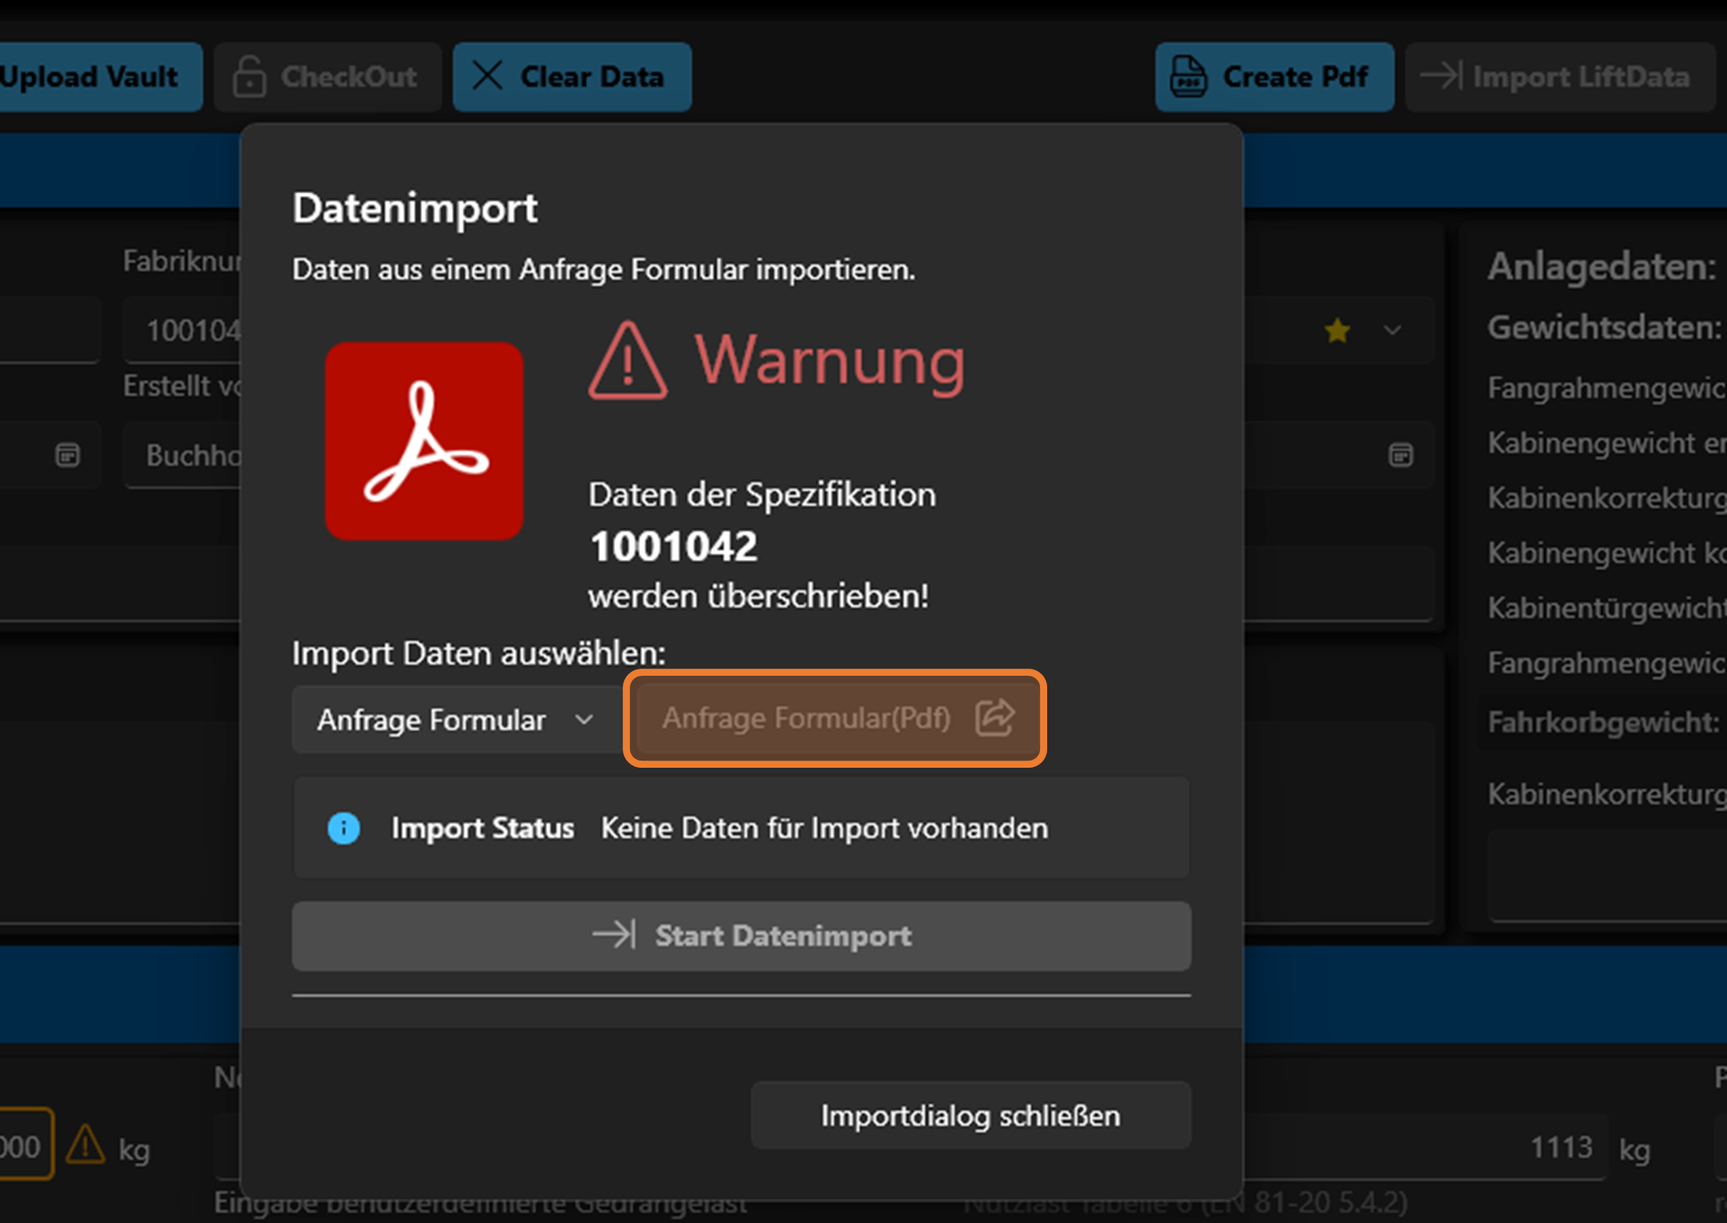
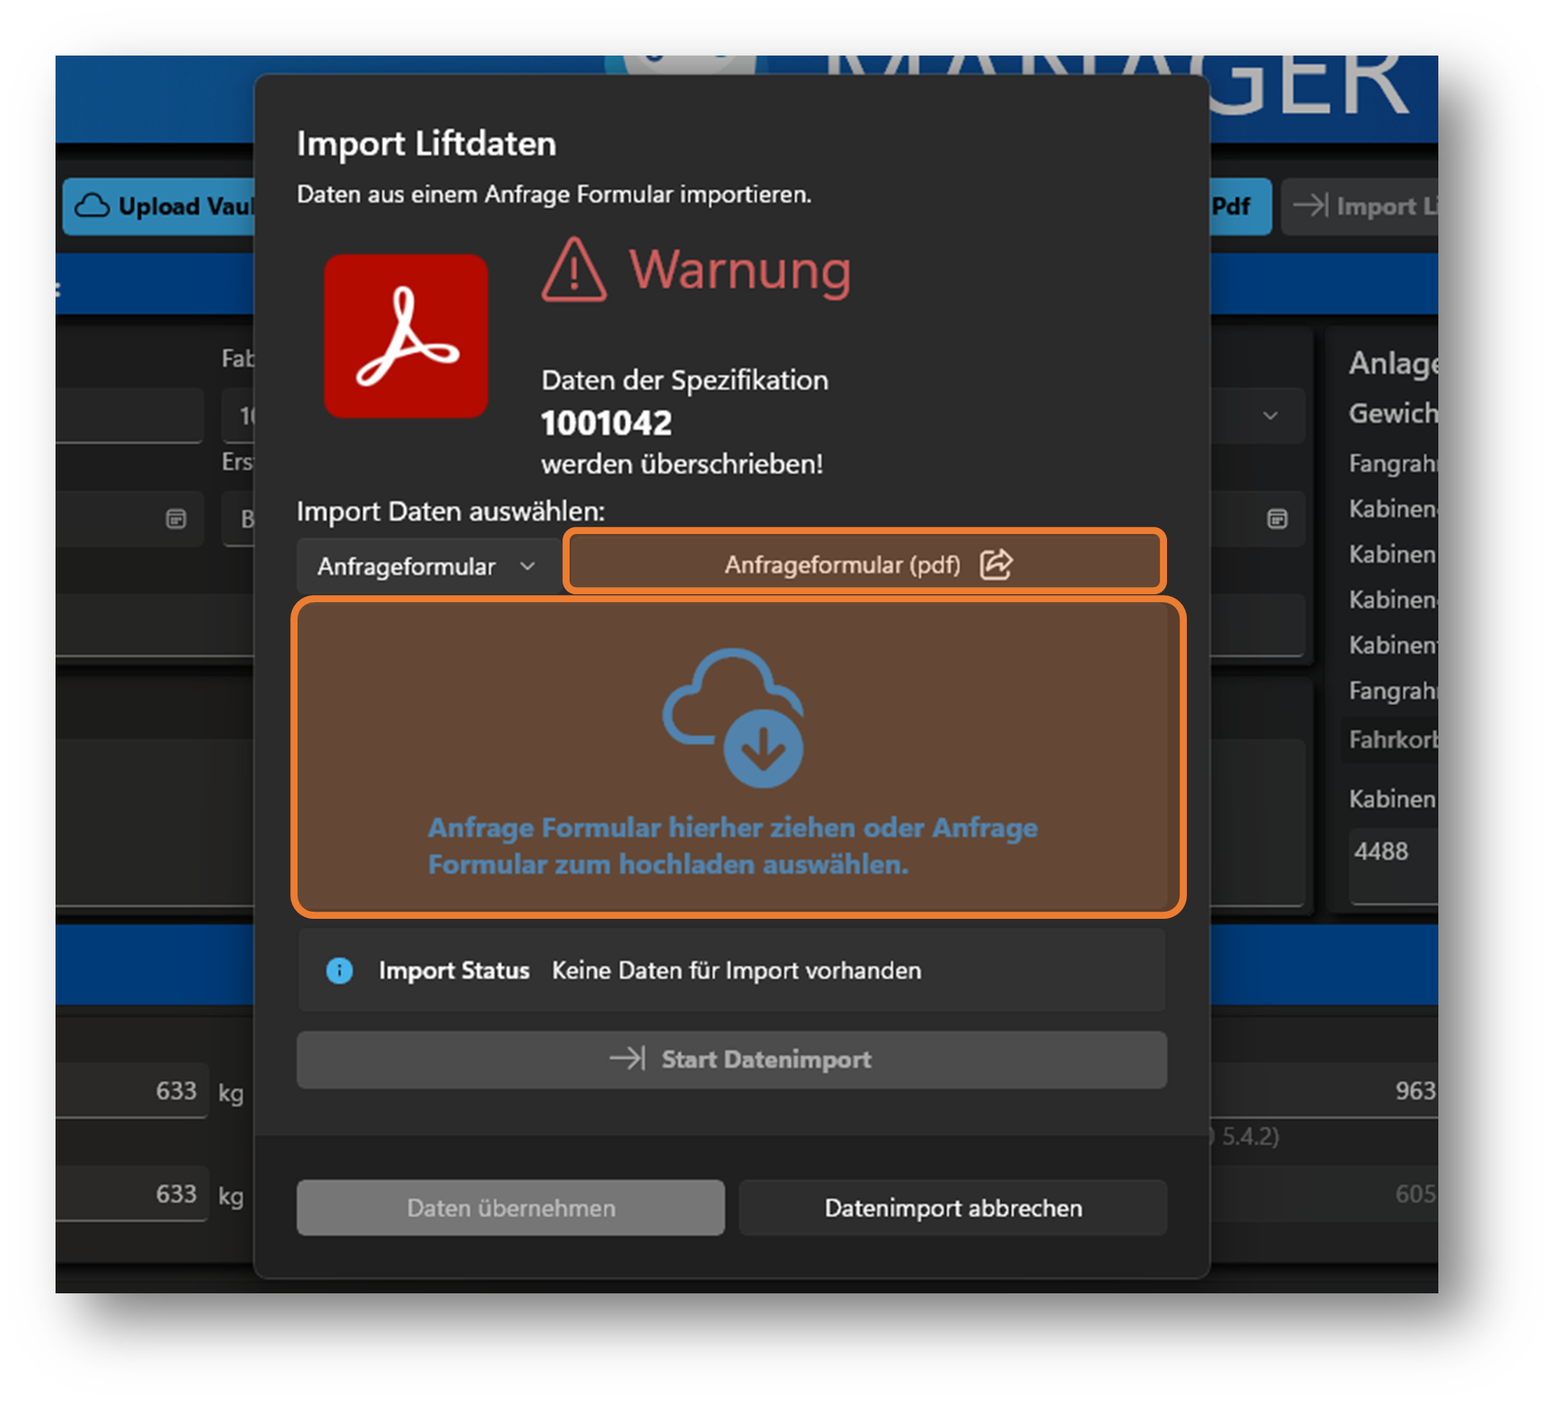
update helpCenter mailImport

diff --git a/LiftDataManager.Core/Services/ParameterDataService.cs b/LiftDataManager.Core/Services/ParameterDataService.cs
@@ -4,6 +4,7 @@ using LiftDataManager.Core.Contracts.Services;
 using LiftDataManager.Core.DataAccessLayer;
 using LiftDataManager.Core.Models.ComponentModels;
 using Microsoft.Extensions.Logging;
+using MsgReader.Outlook;
 using PdfSharp;
 using PdfSharp.Fonts;
 using PdfSharp.Pdf.AcroForms;
@@ -230,19 +231,23 @@ public partial class ParameterDataService : IParameterDataService
         {
             return transferDataList;
         }
-        using (var msg = new MsgReader.Outlook.Storage.Message(path))
+        Encoding.RegisterProvider(CodePagesEncodingProvider.Instance);
+        string? htmlBody;
+        using (var msg = new Storage.Message(path))
         {
             var from = msg.Sender.Email;
             _logger.LogInformation(60100, "Mailofferimport sender: {from}", from);
             var subject = msg.Subject;
             _logger.LogInformation(60100, "Mailofferimport subject: {subject}", subject);
-            var htmlBody = msg.BodyHtml;
-            var mailOfferHtml = new HtmlDocument();
-            mailOfferHtml.LoadHtml(htmlBody);
-            var htmlNodes = mailOfferHtml.DocumentNode.SelectNodes("//tr");
-            double carFloorHeight = 86d;
-            double carRoofHeight = 76d;
-            Dictionary<string, (int, string)> importdataDictionary = new()
+            htmlBody = msg.BodyHtml;
+        }
+
+        var mailOfferHtml = new HtmlDocument();
+        mailOfferHtml.LoadHtml(htmlBody);
+        var htmlNodes = mailOfferHtml.DocumentNode.SelectNodes("//tr");
+        double carFloorHeight = 86d;
+        double carRoofHeight = 76d;
+        Dictionary<string, (int, string)> importdataDictionary = new()
             {
                 {"var_AnPersonZ1", (1, "Name;Vorname;Firma") },
                 {"var_AnPersonZ2", (0, "Straße")},
@@ -279,170 +284,169 @@ public partial class ParameterDataService : IParameterDataService
                 {"var_B2" , (0, "Größter Schienenbügelabstand")},
                 {"var_Kommentare" , (0, "Anmerkungen")}
             };
-
-            foreach (var dataSet in importdataDictionary)
+        foreach (var dataSet in importdataDictionary)
+        {
+            var value = string.Empty;
+            switch (dataSet.Value.Item1)
             {
-                var value = string.Empty;
-                switch (dataSet.Value.Item1)
-                {
-                    case 1:
-                        // concatenate strings
-                        var concatenatedString = string.Empty;
-                        var parameters = dataSet.Value.Item2.Split(';');
-                        if (parameters.Length > 0)
+                case 1:
+                    // concatenate strings
+                    var concatenatedString = string.Empty;
+                    var parameters = dataSet.Value.Item2.Split(';');
+                    if (parameters.Length > 0)
+                    {
+                        concatenatedString = string.Join(' ', parameters.Select(x => GetValueFromHtmlNode(htmlNodes.FirstOrDefault(y => y.InnerText.StartsWith(x)))));
+                    }
+                    value = concatenatedString;
+                    break;
+                case 2:
+                    // set entrances
+                    var entrances = GetValueFromHtmlNode(htmlNodes.FirstOrDefault(x => x.InnerText.StartsWith(dataSet.Value.Item2)));
+                    value = entrances.Contains(dataSet.Key[^1..]).ToString();
+                    break;
+                case 3:
+                    // set carTyp
+                    value = string.IsNullOrWhiteSpace(GetValueFromHtmlNode(htmlNodes.FirstOrDefault(x => x.InnerText.StartsWith(dataSet.Value.Item2))))
+                            ? string.Empty
+                            : "Fremdkabine";
+                    break;
+                case 4:
+                    // convert mm to m
+                    var travelmeter = "0";
+                    var travelmm = GetValueFromHtmlNode(htmlNodes.FirstOrDefault(x => x.InnerText.StartsWith(dataSet.Value.Item2)));
+                    if (!string.IsNullOrWhiteSpace(travelmm))
+                    {
+                        if (double.TryParse(travelmm, out double doubleValue))
                         {
-                            concatenatedString = string.Join(' ', parameters.Select(x => GetValueFromHtmlNode(htmlNodes.FirstOrDefault(y => y.InnerText.StartsWith(x)))));
+                            travelmeter = (doubleValue / 1000).ToString();
                         }
-                        value = concatenatedString;
-                        break;
-                    case 2:
-                        // set entrances
-                        var entrances = GetValueFromHtmlNode(htmlNodes.FirstOrDefault(x => x.InnerText.StartsWith(dataSet.Value.Item2)));
-                        value = entrances.Contains(dataSet.Key[^1..]).ToString();
-                        break;
-                    case 3:
-                        // set carTyp
-                        value = string.IsNullOrWhiteSpace(GetValueFromHtmlNode(htmlNodes.FirstOrDefault(x => x.InnerText.StartsWith(dataSet.Value.Item2)))) 
-                                ? string.Empty 
-                                : "Fremdkabine" ;
-                        break;
-                    case 4:
-                        // convert mm to m
-                        var travelmeter = "0";
-                        var travelmm = GetValueFromHtmlNode(htmlNodes.FirstOrDefault(x => x.InnerText.StartsWith(dataSet.Value.Item2)));
-                        if (!string.IsNullOrWhiteSpace(travelmm))
+                    }
+                    value = travelmeter;
+                    break;
+                case 5:
+                    // set liftTyp
+                    var selectedLiftTyp = GetValueFromHtmlNode(htmlNodes.FirstOrDefault(x => x.InnerText.StartsWith(dataSet.Value.Item2)));
+                    value = selectedLiftTyp switch
+                    {
+                        "Hydraulikaufzug" => "Personen- / Lasten Hydraulik-Aufzug",
+                        "Seilaufzug" => "Personen Seil-Aufzug",
+                        _ => string.Empty,
+                    };
+                    break;
+                case 6:
+                    // set machineroom
+                    var machineroom = GetValueFromHtmlNode(htmlNodes.FirstOrDefault(x => x.InnerText.StartsWith(dataSet.Value.Item2)));
+                    value = machineroom switch
+                    {
+                        "mit Maschinenraum oben über" => "oben über",
+                        "mit Maschinenraum oben neben" => "oben neben",
+                        "mit Maschinenraum unten neben" => "unten neben",
+                        "ohne Maschinenraum" => "ohne",
+                        _ => string.Empty,
+                    };
+                    break;
+                case 7:
+                    // set carFrameTyp
+                    var carFrameTyp = GetValueFromHtmlNode(htmlNodes.FirstOrDefault(x => x.InnerText.StartsWith(dataSet.Value.Item2)));
+                    var drivetyp = GetValueFromHtmlNode(htmlNodes.FirstOrDefault(x => x.InnerText.StartsWith("Antriebsart")));
+                    if (!string.IsNullOrWhiteSpace(drivetyp))
+                    {
+                        value = carFrameTyp switch
                         {
-                            if (double.TryParse(travelmm, out double doubleValue))
-                            {
-                                travelmeter = (doubleValue / 1000).ToString();
-                            }
-                        }
-                        value = travelmeter;
-                        break;
-                    case 5:
-                        // set liftTyp
-                        var selectedLiftTyp = GetValueFromHtmlNode(htmlNodes.FirstOrDefault(x => x.InnerText.StartsWith(dataSet.Value.Item2)));
-                        value = selectedLiftTyp switch
-                        {
-                            "Hydraulikaufzug" => "Personen- / Lasten Hydraulik-Aufzug",
-                            "Seilaufzug" => "Personen Seil-Aufzug",
+                            "Rucksackausführung" => drivetyp.StartsWith("H") ? "Sonderbausatz Hydr. Rucksack 2:1" : "Sonderbausatz Seil Rucksack MRL",
+                            "Zentral / Tandem" => drivetyp.StartsWith("H") ? "Sonderbausatz Hydr. Tandem 2:1" : "Sonderbausatz Seil Zentralrahmen",
                             _ => string.Empty,
                         };
-                        break;
-                    case 6:
-                        // set machineroom
-                        var machineroom = GetValueFromHtmlNode(htmlNodes.FirstOrDefault(x => x.InnerText.StartsWith(dataSet.Value.Item2)));
-                        value = machineroom switch
-                        {
-                           "mit Maschinenraum oben über" => "oben über",
-                           "mit Maschinenraum oben neben" => "oben neben",
-                           "mit Maschinenraum unten neben" => "unten neben",
-                           "ohne Maschinenraum" => "ohne",
-                           _ => string.Empty,
-                        };
-                        break;
-                    case 7:
-                        // set carFrameTyp
-                        var carFrameTyp = GetValueFromHtmlNode(htmlNodes.FirstOrDefault(x => x.InnerText.StartsWith(dataSet.Value.Item2)));
-                        var drivetyp = GetValueFromHtmlNode(htmlNodes.FirstOrDefault(x => x.InnerText.StartsWith("Antriebsart")));
-                        if (!string.IsNullOrWhiteSpace(drivetyp))
-                        {
-                            value = carFrameTyp switch
+                    }
+                    break;
+                case 8:
+                    // set carFloorTyp
+                    switch (dataSet.Key)
+                    {
+                        case "var_Bodentyp":
+                            value = "extern";
+                            break;
+                        case "var_KU":
+                            var floorHeightString = GetValueFromHtmlNode(htmlNodes.FirstOrDefault(x => x.InnerText.StartsWith(dataSet.Value.Item2)));
+                            if (!string.IsNullOrWhiteSpace(floorHeightString))
                             {
-                                "Rucksackausführung" => drivetyp.StartsWith("H") ? "Sonderbausatz Hydr. Rucksack 2:1" : "Sonderbausatz Seil Rucksack MRL",
-                                "Zentral / Tandem" => drivetyp.StartsWith("H") ? "Sonderbausatz Hydr. Tandem 2:1" : "Sonderbausatz Seil Zentralrahmen",
-                                _ => string.Empty,
-                            };
+                                if (double.TryParse(floorHeightString, out double doubleValue))
+                                {
+                                    carFloorHeight = doubleValue;
+                                }
+                            }
+                            value = carFloorHeight.ToString();
+                            break;
+                        default:
+                            break;
+                    }
+                    break;
+                case 9:
+                    //set carroof
+                    var roofHeightString = GetValueFromHtmlNode(htmlNodes.FirstOrDefault(x => x.InnerText.StartsWith(dataSet.Value.Item2)));
+                    if (!string.IsNullOrWhiteSpace(roofHeightString))
+                    {
+                        if (double.TryParse(roofHeightString, out double doubleValue))
+                        {
+                            carRoofHeight = doubleValue;
                         }
-                        break;
-                    case 8:
-                        // set carFloorTyp
+                    }
+                    value = carRoofHeight.ToString();
+                    break;
+                case 10:
+                    //set carWalloutside
+                    var outsideCar = GetValueFromHtmlNode(htmlNodes.FirstOrDefault(x => x.InnerText.StartsWith(dataSet.Value.Item2)));
+                    if (string.IsNullOrWhiteSpace(outsideCar))
+                    {
                         switch (dataSet.Key)
                         {
-                            case "var_Bodentyp":
-                                value = "extern";
-                                break;
-                            case "var_KU":
-                                var floorHeightString = GetValueFromHtmlNode(htmlNodes.FirstOrDefault(x => x.InnerText.StartsWith(dataSet.Value.Item2)));
-                                if (!string.IsNullOrWhiteSpace(floorHeightString))
+                            case "var_KBA" or "var_KTA":
+                                var carInside = GetValueFromHtmlNode(htmlNodes.FirstOrDefault(x => x.InnerText.StartsWith(dataSet.Key == "var_KBA"
+                                                                                                     ? "Kabinenbreite innen"
+                                                                                                     : "Kabinentiefe innen")));
+                                if (!string.IsNullOrWhiteSpace(carInside))
                                 {
-                                    if (double.TryParse(floorHeightString, out double doubleValue))
+                                    if (double.TryParse(carInside, out double doubleValue))
                                     {
-                                        carFloorHeight = doubleValue;
+                                        value = (doubleValue + 50d).ToString();
                                     }
                                 }
-                                value = carFloorHeight.ToString();
+                                break;
+                            case "var_KHA":
+                                var carHeightOutside = GetValueFromHtmlNode(htmlNodes.FirstOrDefault(x => x.InnerText.StartsWith(dataSet.Value.Item2)));
+                                if (string.IsNullOrWhiteSpace(carHeightOutside))
+                                {
+                                    var carHeightInside = GetValueFromHtmlNode(htmlNodes.FirstOrDefault(x => x.InnerText.StartsWith("Kabinenhöhe innen")));
+                                    if (double.TryParse(carHeightInside, out double doubleValue))
+                                    {
+                                        value = (carFloorHeight + doubleValue + carRoofHeight).ToString();
+                                    }
+                                }
+                                else
+                                {
+                                    value = carHeightOutside;
+                                }
                                 break;
                             default:
                                 break;
                         }
-                        break;
-                    case 9:
-                        //set carroof
-                        var roofHeightString = GetValueFromHtmlNode(htmlNodes.FirstOrDefault(x => x.InnerText.StartsWith(dataSet.Value.Item2)));
-                        if (!string.IsNullOrWhiteSpace(roofHeightString))
-                        {
-                            if (double.TryParse(roofHeightString, out double doubleValue))
-                            {
-                                carRoofHeight = doubleValue;
-                            }
-                        }
-                        value = carRoofHeight.ToString();
-                        break;
-                    case 10:
-                        //set carWalloutside
-                        var outsideCar = GetValueFromHtmlNode(htmlNodes.FirstOrDefault(x => x.InnerText.StartsWith(dataSet.Value.Item2)));
-                        if (string.IsNullOrWhiteSpace(outsideCar))
-                        {
-                            switch (dataSet.Key)
-                            {
-                                case "var_KBA" or "var_KTA":
-                                    var carInside = GetValueFromHtmlNode(htmlNodes.FirstOrDefault(x => x.InnerText.StartsWith(dataSet.Key == "var_KBA"
-                                                                                                         ? "Kabinenbreite innen"
-                                                                                                         : "Kabinentiefe innen")));
-                                    if (!string.IsNullOrWhiteSpace(carInside))
-                                    {
-                                        if (double.TryParse(carInside, out double doubleValue))
-                                        {
-                                            value = (doubleValue + 50d).ToString();
-                                        }
-                                    }
-                                    break;
-                                case "var_KHA":
-                                    var carHeightOutside = GetValueFromHtmlNode(htmlNodes.FirstOrDefault(x => x.InnerText.StartsWith(dataSet.Value.Item2)));
-                                    if (string.IsNullOrWhiteSpace(carHeightOutside))
-                                    {
-                                        var carHeightInside = GetValueFromHtmlNode(htmlNodes.FirstOrDefault(x => x.InnerText.StartsWith("Kabinenhöhe innen")));
-                                        if (double.TryParse(carHeightInside, out double doubleValue))
-                                        {
-                                            value = (carFloorHeight + doubleValue + carRoofHeight).ToString();
-                                        }
-                                    }
-                                    else
-                                    {
-                                        value = carHeightOutside;
-                                    }
-                                    break;
-                                default:
-                                    break;
-                            }
-                        }
-                        else
-                        {
-                            value = outsideCar;
-                        }
-                        break;
-                    default:
-                        // return standard value
-                        value = GetValueFromHtmlNode(htmlNodes.FirstOrDefault(x => x.InnerText.StartsWith(dataSet.Value.Item2)));
-                        break;
-                }
-                transferDataList.Add(new TransferData(dataSet.Key, 
-                                                      string.IsNullOrWhiteSpace(value) ? string.Empty : value , 
-                                                      string.Empty, 
-                                                      false));
+                    }
+                    else
+                    {
+                        value = outsideCar;
+                    }
+                    break;
+                default:
+                    // return standard value
+                    value = GetValueFromHtmlNode(htmlNodes.FirstOrDefault(x => x.InnerText.StartsWith(dataSet.Value.Item2)));
+                    break;
             }
+            transferDataList.Add(new TransferData(dataSet.Key,
+                                                  string.IsNullOrWhiteSpace(value) ? string.Empty : value,
+                                                  string.Empty,
+                                                  false));
         }
+
         await Task.CompletedTask;
         return transferDataList;
     }

diff --git a/LiftDataManager/Docs/de/04-Datenimport/03-Mailanfrage Import/MailImport.md b/LiftDataManager/Docs/de/04-Datenimport/03-Mailanfrage Import/MailImport.md
@@ -1,0 +1,12 @@
+# Mailanfrage importieren
+
+![image](/LiftDataManager/Docs/HelpImages/image190.png)  
+![image](/LiftDataManager/Docs/HelpImages/image191.png)  
+
+>Nach der Auswahl einer Email (Onlineanfrage) wird der Button „**Start Datenimport**“ aktiv und Import kann durch klicken des Buttons gestartet werden.  
+
+![image](/LiftDataManager/Docs/HelpImages/image192.png)  
+
+>Nach dem Importvorgang kann können die **„Daten übernommen“**werden, detaillierte Importinformation können in dem **Infocenter Sidebarpanel** eingesehen werden.  
+
+[//]: # (Tags: Mail-Import | Daten importieren | Outlook einlesen | Onlineanfrage einlesen)  

diff --git a/LiftDataManager/Docs/de/04-Datenimport/02-PDF-Auslegungen Import/PDFImport.md b/LiftDataManager/Docs/de/04-Datenimport/02-PDF-Auslegungen Import/PDFImport.md
@@ -7,6 +7,6 @@
 
 ![image](/LiftDataManager/Docs/HelpImages/image37.png)  
 
->Nach dem Importvorgang kann der Importdialog geschlossen werden, detaillierte Importinformation können in dem **Infocenter Sidebarpanel** eingesehen werden.  
+>Nach dem Importvorgang kann können die **„Daten übernommen“**werden, detaillierte Importinformation können in dem Infocenter Sidebarpanel eingesehen werden.  
 
 [//]: # (Tags: PDF-Import | importieren |  Auslegungen einlesen | Pdf einlesen)  
